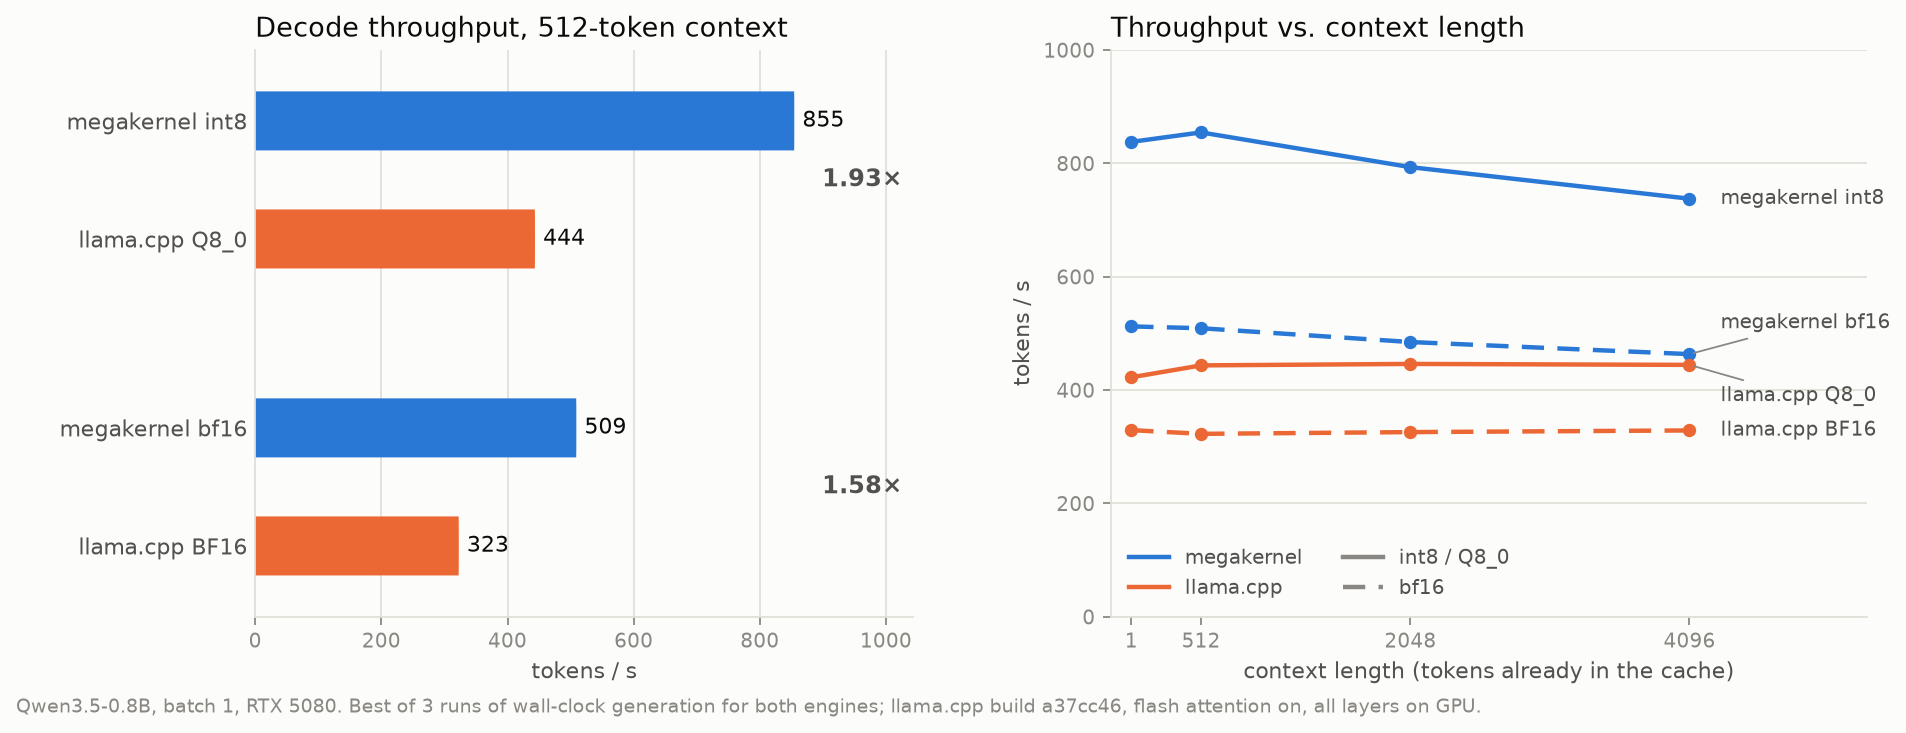
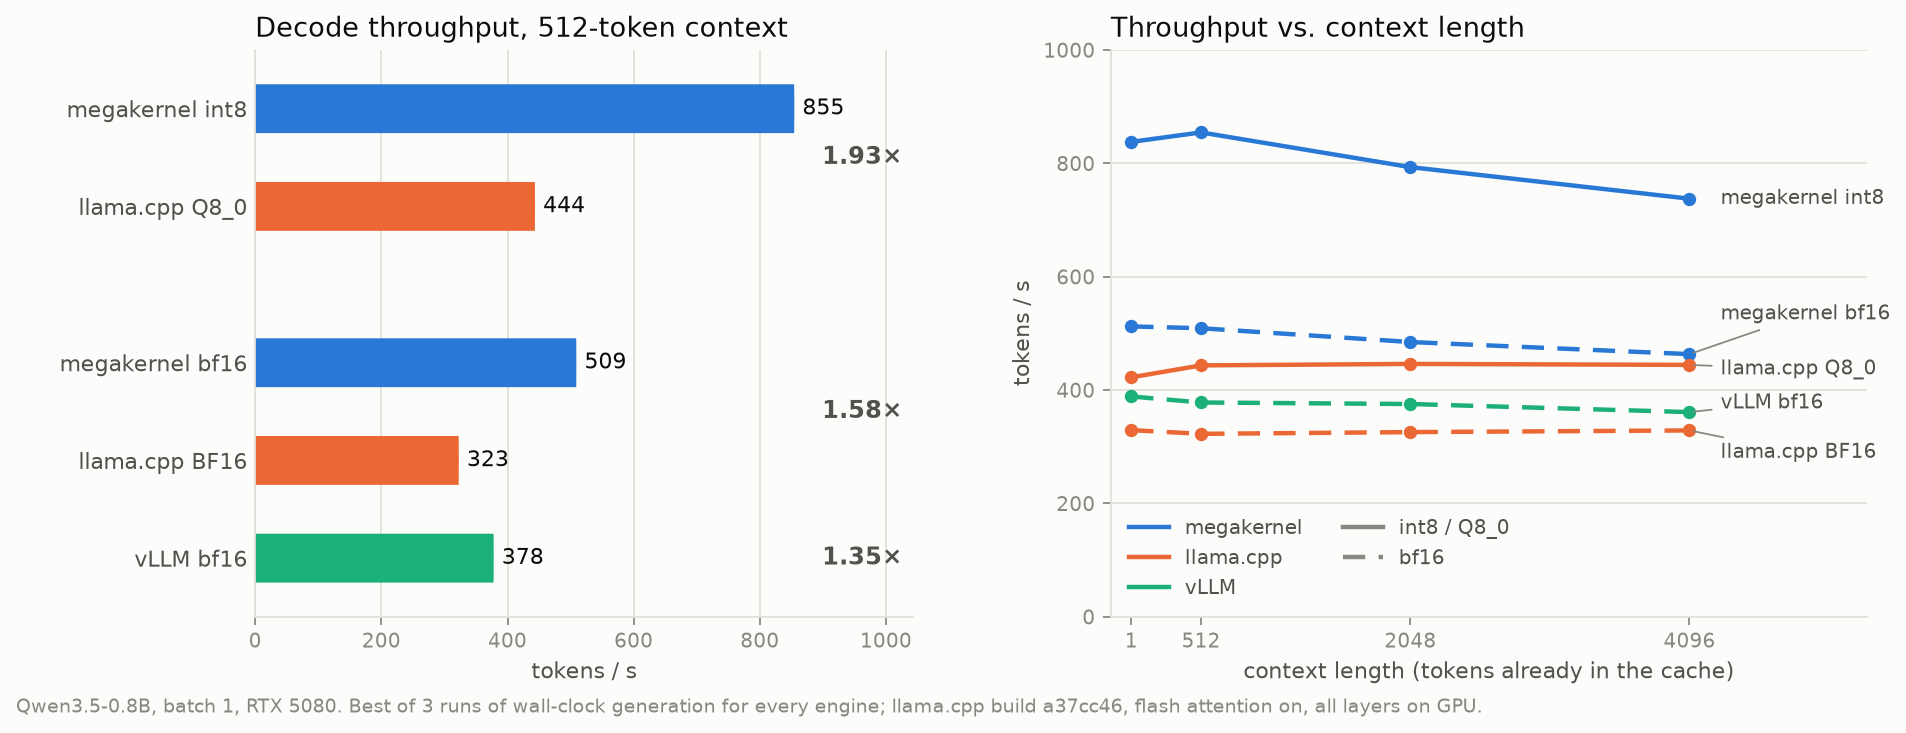
Add vLLM 0.32 bf16 baseline to results, chart and README
Measured with CUDA graphs at batch 1 (bandwidth-checked: 916/916 GB/s):
389 / 378 / 375 / 361 tok/s at ctx 1 / 512 / 2048 / 4096, so the bf16
megakernel is 1.29-1.35x faster.

diff --git a/qwen3.5-0.8b/tools/plot_results.py b/qwen3.5-0.8b/tools/plot_results.py
@@ -1,6 +1,6 @@
 """Render docs/throughput.png from results/{decode,llamacpp}_*.json (written by bench/run_all.sh).
 
-Both engines are compared on the same footing: best of 3 timed repetitions of wall-clock
+Every engine is compared on the same footing: best of 3 timed repetitions of wall-clock
 generation, so megakernel numbers include launch gaps and host round trips.
 """
 
@@ -63,10 +63,11 @@ def main():
         v = s[(e, q)][512]
         rounded_hbar(a, y, v, 0.5, ENGINE[e])
         a.text(v + vmax * 0.015, y, f"{v:.0f}", va="center", ha="left", color=INK, fontsize=10)
-    for i in (0, 2):  # speedup of each megakernel bar over the llama.cpp bar below it
-        sp = s[rows[i][:2]][512] / s[rows[i + 1][:2]][512]
-        a.text(vmax * 1.2, ys[i] + 0.5, f"{sp:.2f}×", va="center", ha="right", color=INK2, fontsize=11,
-               fontweight="bold")
+    # speedup label of the megakernel bar over another engine's bar: (megakernel row, other row, label y)
+    pairs = [(0, 1, ys[0] + 0.5), (2, 3, ys[2] + 0.5)] + ([(2, 4, ys[4])] if len(rows) > 4 else [])
+    for i, j, y in pairs:
+        sp = s[rows[i][:2]][512] / s[rows[j][:2]][512]
+        a.text(vmax * 1.2, y, f"{sp:.2f}×", va="center", ha="right", color=INK2, fontsize=11, fontweight="bold")
     a.set_yticks(ys, [r[2] for r in rows], color=INK2, fontsize=10)
     a.set_ylim(ys[-1] + 0.6, -0.6)
     a.set_xlim(0, vmax * 1.22)
@@ -83,7 +84,8 @@ def main():
                marker="o", ms=5, solid_capstyle="round")
         label = {"int8": "int8" if e == "megakernel" else "Q8_0", "bf16": "BF16" if e == "llama.cpp" else "bf16"}[q]
         # these two end close together: pull their labels apart with leader lines
-        dy = {("megakernel", "bf16"): 14, ("llama.cpp", "int8"): -14}.get((e, q), 0)
+        dy = {("megakernel", "bf16"): 18, ("llama.cpp", "int8"): -2, ("vLLM", "bf16"): 4,
+              ("llama.cpp", "bf16"): -10}.get((e, q), 0)
         b.annotate(f"{e} {label}", (xs[-1], d[xs[-1]]), xytext=(14, dy), textcoords="offset points", va="center",
                    color=INK2, fontsize=9, arrowprops=dict(arrowstyle="-", color=MUTED, lw=0.8) if dy else None)
     b.set_xticks([0, 512, 2048, 4096], ["1", "512", "2048", "4096"])
@@ -99,7 +101,7 @@ def main():
                 plt.Line2D([], [], color=MUTED, lw=2, ls=(0, (5, 3)), label="bf16")]
     b.legend(handles=handles, loc="lower left", frameon=False, ncol=2, fontsize=9, labelcolor=INK2)
 
-    fig.text(0.01, -0.02, "Qwen3.5-0.8B, batch 1, RTX 5080. Best of 3 runs of wall-clock generation for both engines; "
+    fig.text(0.01, -0.02, "Qwen3.5-0.8B, batch 1, RTX 5080. Best of 3 runs of wall-clock generation for every engine; "
              f"llama.cpp build {json.load(open(os.path.join(ROOT, 'results', 'llamacpp_BF16.json')))[0]['build_commit']}"
              ", flash attention on, all layers on GPU.", color=MUTED, fontsize=8.5)
     out = os.path.join(ROOT, "docs", "throughput.png")

diff --git a/qwen3.5-0.8b/README.md b/qwen3.5-0.8b/README.md
@@ -10,7 +10,8 @@ On an RTX 5080 at batch size 1:
   actually sustains in a pure bandwidth test.
 - **int8 (Q8_0-style): 908 tok/s.** WikiText-2 perplexity rises from 17.140 to 17.161 (+0.12%).
 - **1.6× and 1.9× faster than llama.cpp** BF16 and Q8_0 (current master, flash attention, every
-  layer on the GPU), comparing wall-clock against wall-clock.
+  layer on the GPU), and **1.35× faster than vLLM 0.32** in bf16 (CUDA graphs), comparing wall-clock
+  against wall-clock.
 - **Bitwise deterministic**, and it matches Hugging Face transformers (perplexity 17.1408 against
   17.1402).
 - It runs as an interactive chat CLI or as an OpenAI-compatible server, with tool calling, streaming
@@ -69,14 +70,18 @@ brackets every segment with a raw-bandwidth check and reruns it if anything else
 
 ### Decode throughput
 
-| context | megakernel int8 | llama.cpp Q8_0 | | megakernel bf16 | llama.cpp BF16 | |
-|---:|---:|---:|---:|---:|---:|---:|
-| 1    | 838 | 423 | 1.98× | 512 | 329 | 1.56× |
-| 512  | 855 | 444 | 1.93× | 509 | 323 | 1.58× |
-| 2048 | 793 | 446 | 1.78× | 485 | 326 | 1.49× |
-| 4096 | 738 | 445 | 1.66× | 464 | 329 | 1.41× |
+| context | megakernel int8 | llama.cpp Q8_0 | | megakernel bf16 | llama.cpp BF16 | | vLLM 0.32 bf16 | |
+|---:|---:|---:|---:|---:|---:|---:|---:|---:|
+| 1    | 838 | 423 | 1.98× | 512 | 329 | 1.56× | 389 | 1.32× |
+| 512  | 855 | 444 | 1.93× | 509 | 323 | 1.58× | 378 | 1.35× |
+| 2048 | 793 | 446 | 1.78× | 485 | 326 | 1.49× | 375 | 1.29× |
+| 4096 | 738 | 445 | 1.66× | 464 | 329 | 1.41× | 361 | 1.29× |
 
-Each figure is tokens/s, best of 3 timed runs of wall-clock generation for both engines.
+The speedup columns compare the megakernel with the engine to their left (the bf16 megakernel for
+vLLM, since vLLM runs bf16 here).
+
+Each figure is tokens/s, best of 3 timed runs of wall-clock generation for every engine. vLLM runs
+with CUDA graphs, batch 1 and prefill excluded (`bench/bench_vllm.py`, in its own environment).
 Megakernel numbers include the launch gaps and host round trips between 128-token launches.
 For reference, Hugging Face transformers manages 26 tok/s on the same GPU (bf16, eager, without the
 optional flash-linear-attention kernels).

diff --git a/README.md b/README.md
@@ -6,7 +6,7 @@ Each model gets its own directory with the kernel, a Python runtime, tests and b
 
 | Model | Hardware | Result | Directory |
 |---|---|---|---|
-| Qwen3.5-0.8B (Gated DeltaNet + attention hybrid) | RTX 5080 (sm_120) | **908 tok/s** int8, **542 tok/s** bf16; 1.9× / 1.6× llama.cpp Q8_0 / BF16 | [`qwen3.5-0.8b/`](qwen3.5-0.8b/) |
+| Qwen3.5-0.8B (Gated DeltaNet + attention hybrid) | RTX 5080 (sm_120) | **908 tok/s** int8, **542 tok/s** bf16; 1.9× / 1.6× llama.cpp Q8_0 / BF16, 1.35× vLLM bf16 | [`qwen3.5-0.8b/`](qwen3.5-0.8b/) |
 
 ![Decode throughput vs llama.cpp](qwen3.5-0.8b/docs/throughput.png)
 
